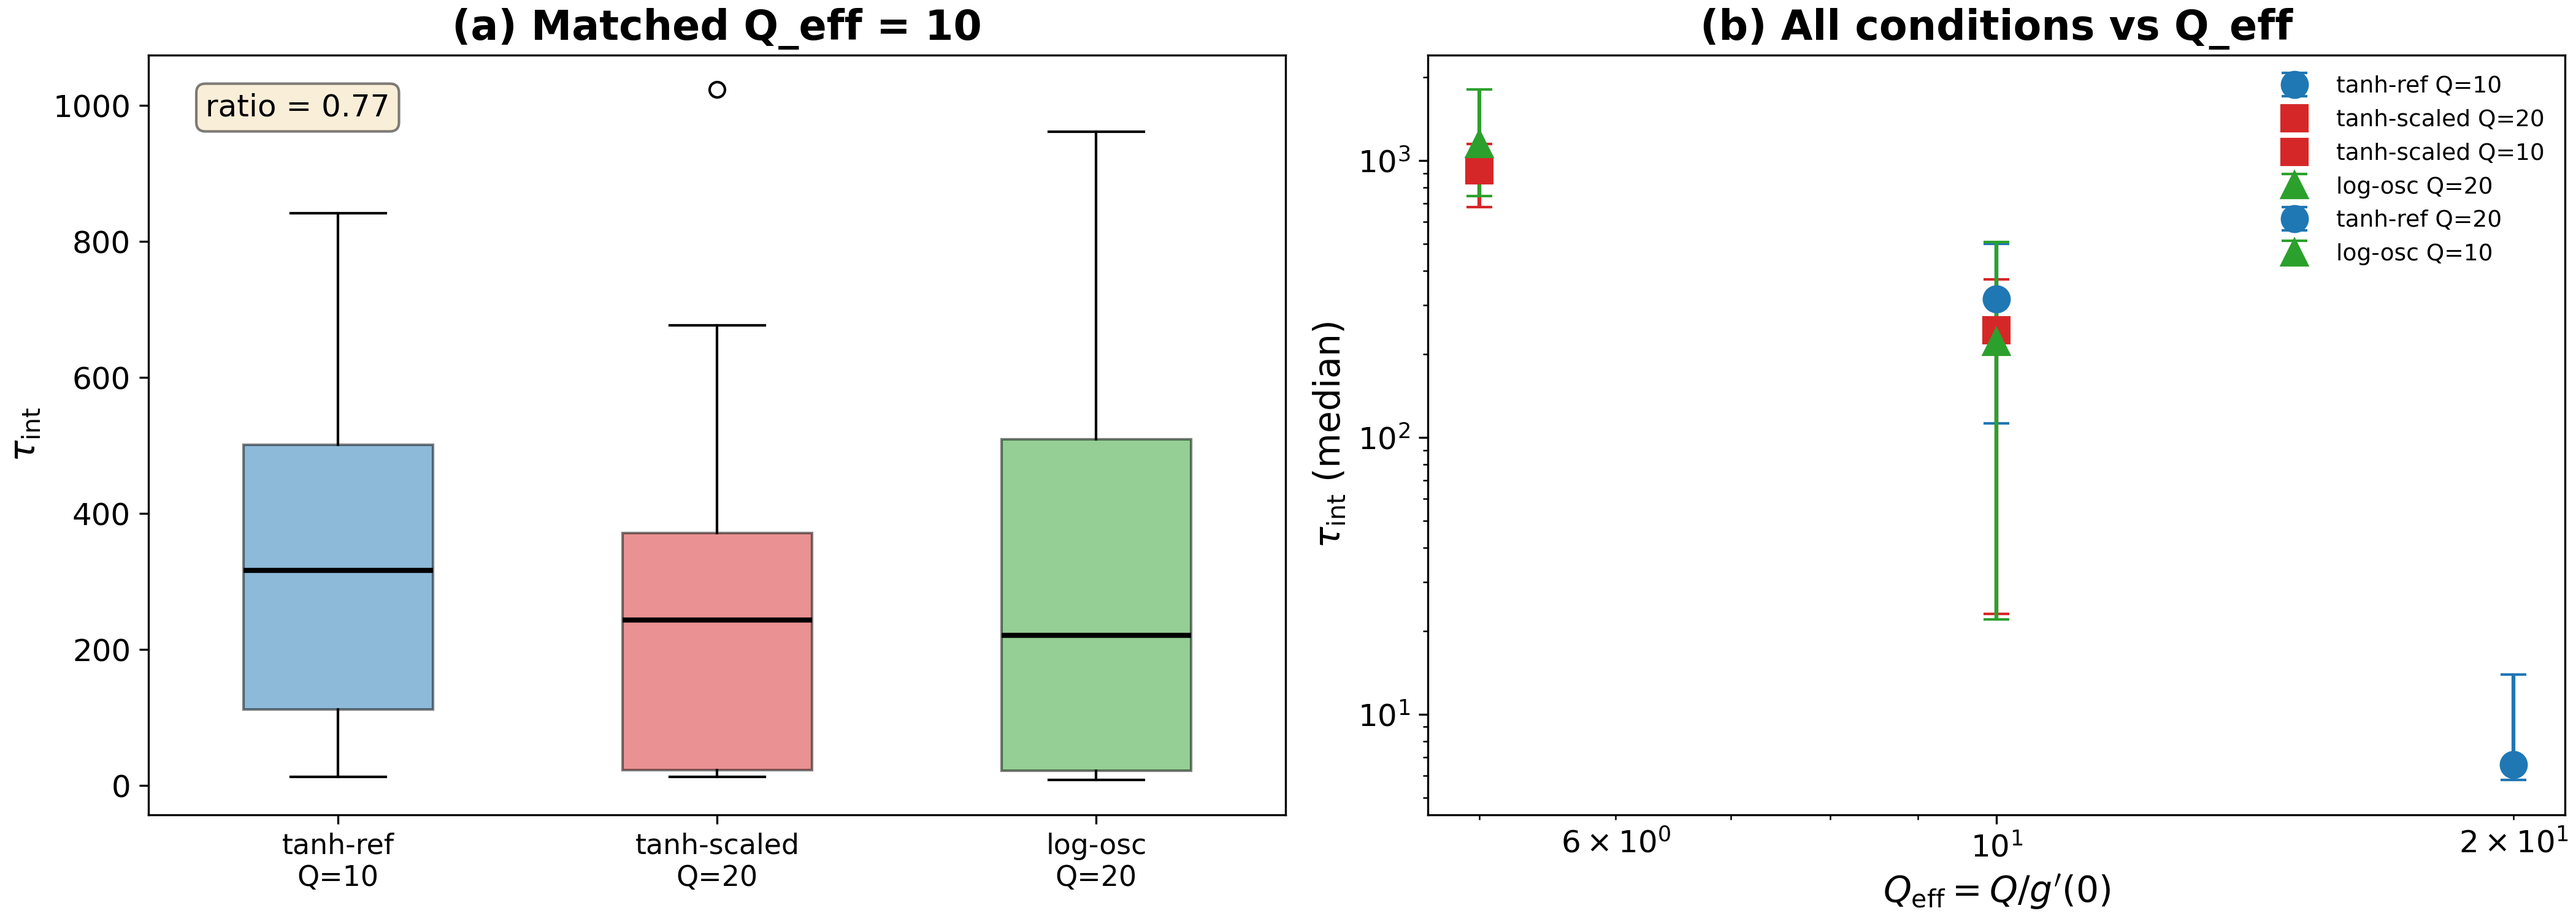
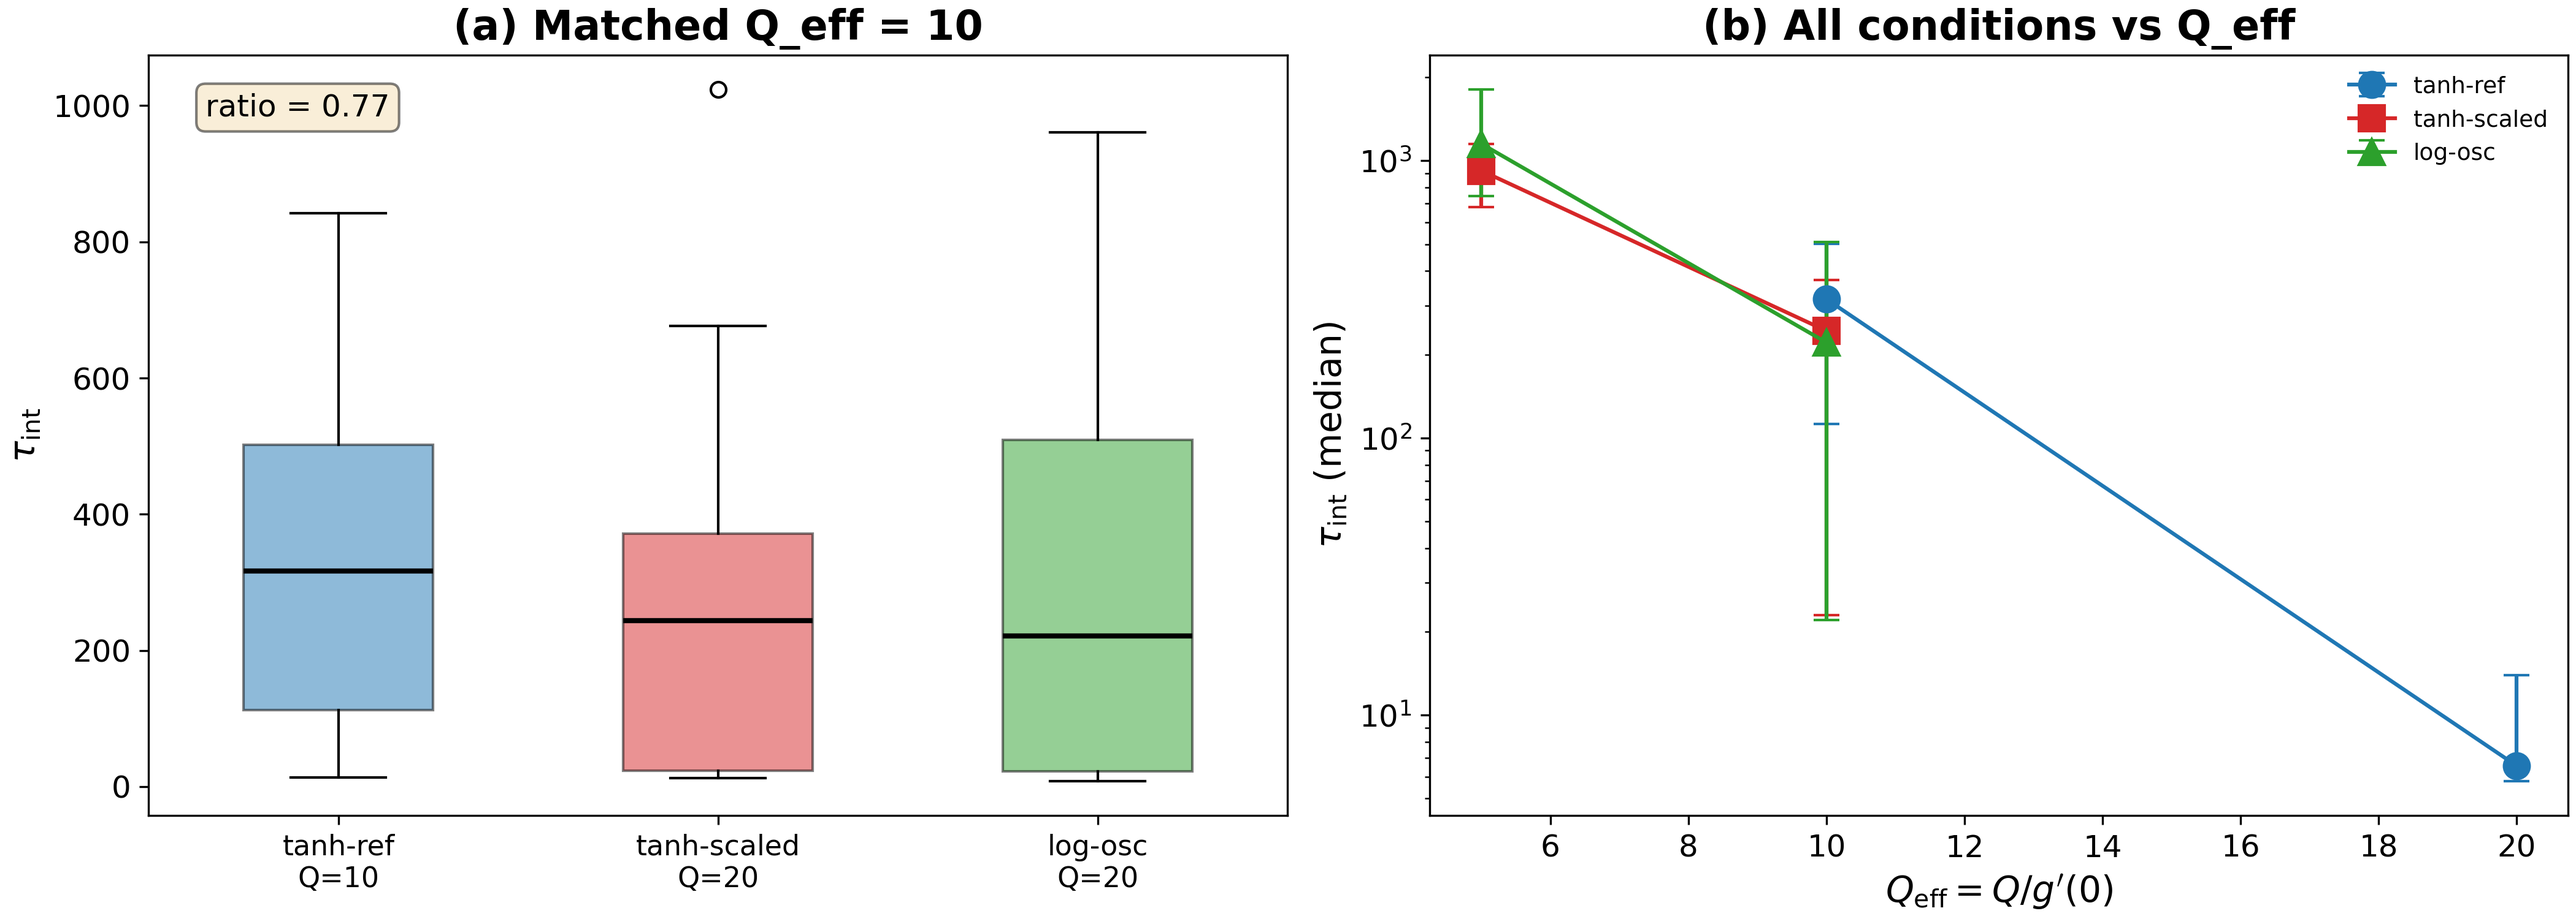
[orbit/forensic-qeff-054] cleanup pass 1: prose fixes, glossary, figure improvements
- Fix E0 description: clarify it runs new short trajectories, not re-analysis
- Add E2 floor-contamination warning to Result section
- Add bimodal tau distribution discussion in E1 section
- Add NH to glossary
- Update registry.yaml cited_by for both references
- e1 panel (b): switch to linear x-axis with connecting lines per method
- e2 panel (b): add "(floor-contaminated)" to panel title

diff --git a/orbits/forensic-qeff-054/solution.py b/orbits/forensic-qeff-054/solution.py
@@ -5,7 +5,7 @@ parameter, and that the entire performance difference between tanh-ref
 (g'(0)=1) and tanh-scaled (g'(0)=2) is due to Q_eff being different.
 
 Experiments:
-  E0: Re-analysis of parent data + short xi trajectory recording
+  E0: Short new trajectories (50k steps, 3 seeds) recording full xi time series
   E1: Decisive Q_eff matching test (tanh-scaled@Q=20 vs tanh-ref@Q=10)
   E2: Kappa sweep (if E1 confirms)
   E3: Residual tail-shape isolation (if E1 confirms)
@@ -367,23 +367,31 @@ def plot_e1(results):
             transform=ax.transAxes, fontsize=12, va='top',
             bbox=dict(boxstyle='round', facecolor='wheat', alpha=0.5))
 
-    # (b) All conditions: tau_int vs Q_eff
+    # (b) All conditions: tau_int vs Q_eff (linear x-axis, lines connecting per method)
     ax = axes[1]
     all_labels = list(results.keys())
     all_labels = [l for l in all_labels if not l.startswith("_")]
+    # Group by method for connecting lines
+    from collections import defaultdict
+    by_method = defaultdict(list)
     for label in all_labels:
         r = results[label]
-        color = colors_map[r['method']]
-        marker = {'tanh-ref': 'o', 'tanh-scaled': 's', 'log-osc': '^'}[r['method']]
-        ax.errorbar(r['Qeff'], r['median'],
-                    yerr=[[r['median'] - r['q25']], [r['q75'] - r['median']]],
-                    fmt=marker, color=color, markersize=10, capsize=5,
-                    label=f"{r['method']} Q={r['Qc']:.0f}", zorder=5)
+        by_method[r['method']].append(r)
+    for method, pts in by_method.items():
+        pts_sorted = sorted(pts, key=lambda r: r['Qeff'])
+        color = colors_map[method]
+        marker = {'tanh-ref': 'o', 'tanh-scaled': 's', 'log-osc': '^'}[method]
+        qeffs = [r['Qeff'] for r in pts_sorted]
+        meds = [r['median'] for r in pts_sorted]
+        yerr_lo = [r['median'] - r['q25'] for r in pts_sorted]
+        yerr_hi = [r['q75'] - r['median'] for r in pts_sorted]
+        ax.errorbar(qeffs, meds, yerr=[yerr_lo, yerr_hi],
+                    fmt=marker + '-', color=color, markersize=10, capsize=5,
+                    label=method, zorder=5, lw=1.5)
     ax.set_xlabel(r"$Q_{\rm eff} = Q / g'(0)$")
     ax.set_ylabel(r"$\tau_{\rm int}$ (median)")
     ax.set_title("(b) All conditions vs Q_eff", fontweight='bold')
     ax.legend(fontsize=9, frameon=False, loc='upper right')
-    ax.set_xscale('log')
     ax.set_yscale('log')
 
     path = os.path.join(FIG, "e1_qeff_matching.png")
@@ -507,7 +515,7 @@ def plot_e2(results):
             'r--', lw=1.5, label=r'$\propto 1/\sqrt{\kappa}$')
     ax.set_xlabel(r"$\kappa$ (anisotropy ratio)")
     ax.set_ylabel(r"$\alpha_{\rm opt}$")
-    ax.set_title(r"(b) Optimal coupling vs anisotropy", fontweight='bold')
+    ax.set_title(r"(b) Optimal coupling vs anisotropy (floor-contaminated)", fontweight='bold', fontsize=13)
     ax.legend(fontsize=11, frameon=False)
     ax.set_xscale('log')
 

diff --git a/orbits/forensic-qeff-054/log.md b/orbits/forensic-qeff-054/log.md
@@ -20,6 +20,7 @@ parents:
 - **kappa**: anisotropy ratio (largest eigenvalue / smallest eigenvalue of target covariance)
 - **IQR**: interquartile range [25th percentile, 75th percentile]
 - **ACF**: autocorrelation function
+- **NH**: Nose-Hoover (single thermostat, N=1)
 
 ## Result
 
@@ -45,12 +46,17 @@ Furthermore, **tail shape is irrelevant at matched Q_eff.** Log-osc (which has a
 sign-changing g' tail) gives tau=221 at Q_eff=10, comparable to tanh-ref's 317 and
 tanh-scaled's 243. The sign of g' in the tail does not matter when Q_eff is matched.
 
+*E2 (kappa sweep) was contaminated by the Hamiltonian floor at fixed Q=10; a proper study
+would co-sweep Q and alpha. Results omitted from conclusions.*
+
 ## Approach
 
 ### E0: Thermostat variable analysis
 
-Ran short trajectories (50k steps, 3 seeds) recording the full xi trajectory for all
-three friction functions at Q=10. The goal was to test whether the thermostat variable's
+Ran short new trajectories (50k steps, 3 seeds) recording the full xi time series for all
+three friction functions at Q=10. These are independent simulations (not a re-analysis of
+parent results.json), chosen to be short enough for quick turnaround while still capturing
+the thermostat variable's equilibrium distribution. The goal was to test whether xi's
 distribution scales with Q_eff as predicted by the equilibrium theory.
 
 The naive prediction for a linearized thermostat is std(xi) = 1/sqrt(g'(0) * Q). This
@@ -76,6 +82,12 @@ For further confirmation, log-osc at Q=20 (Q_eff = 20/2 = 10) gives tau=221, als
 comparable. Meanwhile, both methods at Q_eff=5 (Q=10 for g'(0)=2) give tau > 900.
 And tanh-ref at Q=20 (Q_eff=20) gives tau=6.6, which is the Hamiltonian floor --
 confirming that Q_eff=20 is too large for this target.
+
+Notably, tanh-scaled@Q=20 shows a bimodal tau distribution with IQR [23, 372] (q25=23
+vs tanh-ref's q25=112), suggesting that some seeds find fast-mixing trajectories while
+others get trapped for long periods. This seed-dependent bistability is potentially
+interesting for future investigation: it may indicate sensitivity to initial conditions
+near a mixing-rate bifurcation at this Q_eff value.
 
 ### E2: Alpha-kappa sweep (caveats)
 
